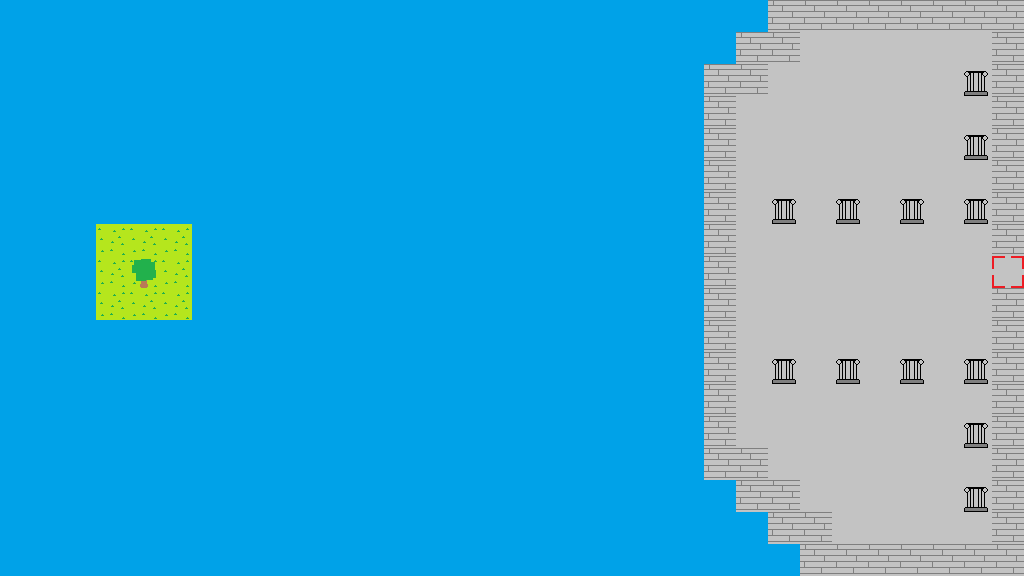
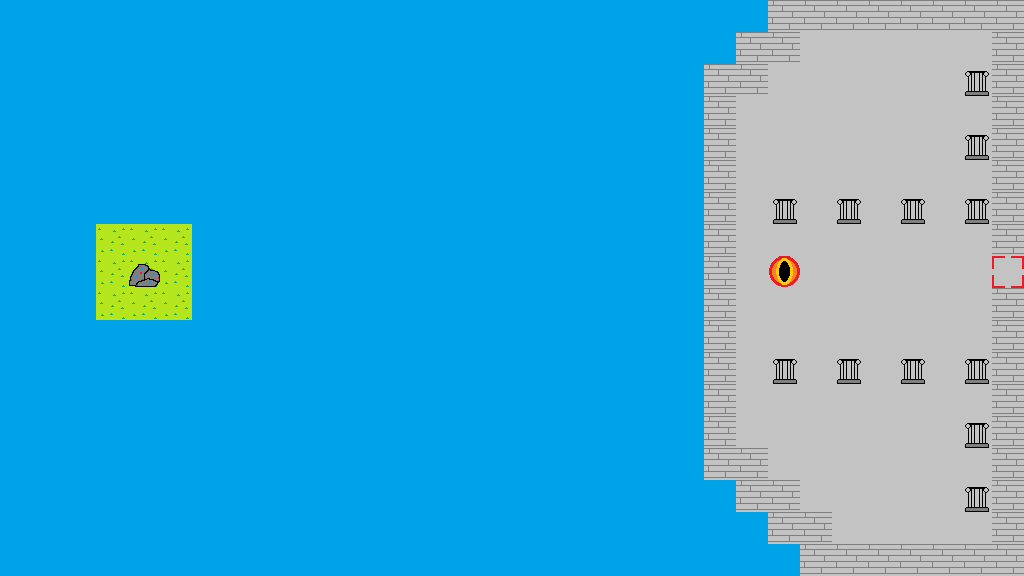
no message

diff --git a/MinioningClient/Visualization/src/main/java/minioning/visuals/Render.java b/MinioningClient/Visualization/src/main/java/minioning/visuals/Render.java
@@ -31,6 +31,7 @@ import com.badlogic.gdx.scenes.scene2d.ui.Image;
 import com.badlogic.gdx.scenes.scene2d.utils.TextureRegionDrawable;
 import static minioning.common.data.EntityType.DOOR;
 import static minioning.common.data.EntityType.HOLYBOLT;
+import static minioning.common.data.EntityType.MINIONMAGE;
 import static minioning.common.data.EntityType.PLAYER;
 import static minioning.visuals.State.INMENU;
 
@@ -48,13 +49,14 @@ public class Render {
     private Texture backgroundTexture_2;
     private Texture backgroundTexture_3;
     private Texture backgroundTexture_4;
-
+  private Texture backgroundTexture_5;
     // Entities
     private Texture playerTexture;
     private Texture enemyTexture;
     private Texture portalTexture;
     private Texture missile1Texture;
     private Texture otherPlayerTexture;
+    private Texture minionTexture;
 
     private static Sprite backgroundSprite;
 
@@ -181,6 +183,7 @@ public class Render {
 
         System.out.println("Loading bg textures");
         try {
+            this.backgroundTexture_5 = new Texture(RESOURCE_ROOT + "map/" + "cave.png");
             this.backgroundTexture_4 = new Texture(RESOURCE_ROOT + "map/" + "wilderness_west.png");
             this.backgroundTexture_3 = new Texture(RESOURCE_ROOT + "map/" + "wilderness_east.png");
             this.backgroundTexture_2 = new Texture(RESOURCE_ROOT + "map/" + "arena.png");
@@ -198,7 +201,9 @@ public class Render {
             portalTexture = new Texture(Gdx.files.local(RESOURCE_ROOT + "graphics/" + "portal.png"));
             missile1Texture = new Texture(Gdx.files.local(RESOURCE_ROOT + "graphics/" + "holybolt.png"));
             otherPlayerTexture = new Texture(Gdx.files.local(RESOURCE_ROOT + "graphics/" + "green.png"));
+            minionTexture = new Texture(Gdx.files.local(RESOURCE_ROOT + "graphics/" + "minion.png"));
             errorTexture = new Texture(Gdx.files.local(RESOURCE_ROOT + "graphics/" + "error.png"));
+            
             try {
                 buttonTexture = new Texture(Gdx.files.local(RESOURCE_ROOT + "graphics/" + "button1.png"));
 
@@ -292,6 +297,8 @@ public class Render {
             sprite = new Sprite(missile1Texture, 0, 0, sizeS, sizeS);
         } else if (entity.getType() == PLAYER && entity.getID() != LocalData.getClientID()) {
             sprite = new Sprite(otherPlayerTexture, 0, 0, sizeL, sizeL);
+            } else if (entity.getType() == MINIONMAGE && entity.getID() != LocalData.getClientID()) {
+            sprite = new Sprite(otherPlayerTexture, 0, 0, sizeL, sizeL);
         } else {
             sprite = new Sprite(errorTexture, 0, 0, sizeL, sizeL);
         }
@@ -326,6 +333,8 @@ public class Render {
                         backgroundSprite = new Sprite(backgroundTexture_3);
                     } else if (bgString.contentEquals("wilderness_west")) {
                         backgroundSprite = new Sprite(backgroundTexture_4);
+                           } else if (bgString.contentEquals("cave")) {
+                        backgroundSprite = new Sprite(backgroundTexture_5);
                     } else {
                         backgroundSprite = new Sprite(errorBG);
                     }

diff --git a/MinioningClient/Core/src/main/java/minioning/core/Launcher.java b/MinioningClient/Core/src/main/java/minioning/core/Launcher.java
@@ -166,7 +166,7 @@ public class Launcher extends Application {
 
         rb2.setOnAction((v) -> {
 
-            LocalData.setInetAddress("10.126.24.199");
+            LocalData.setInetAddress("10.126.91.36");
             System.out.println(LocalData.getInetAddress());
         });
 

diff --git a/MinioningClient/Common/src/main/java/minioning/common/data/EntityType.java b/MinioningClient/Common/src/main/java/minioning/common/data/EntityType.java
@@ -21,5 +21,6 @@ public enum EntityType {
     GOLD,
     PORTAL,
     HOLYBOLT,
+    MINIONMAGE,
     WALL;
 }
